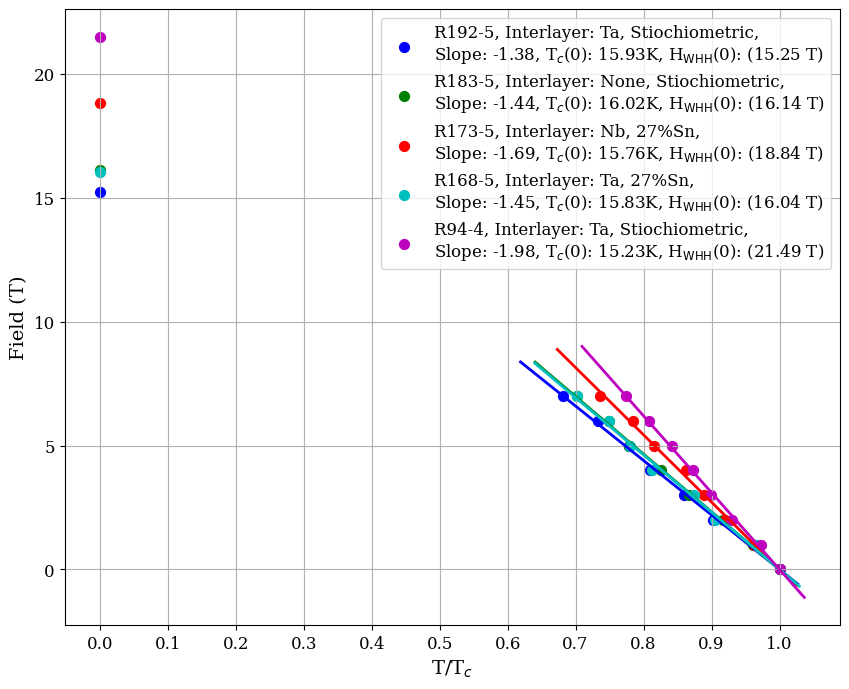
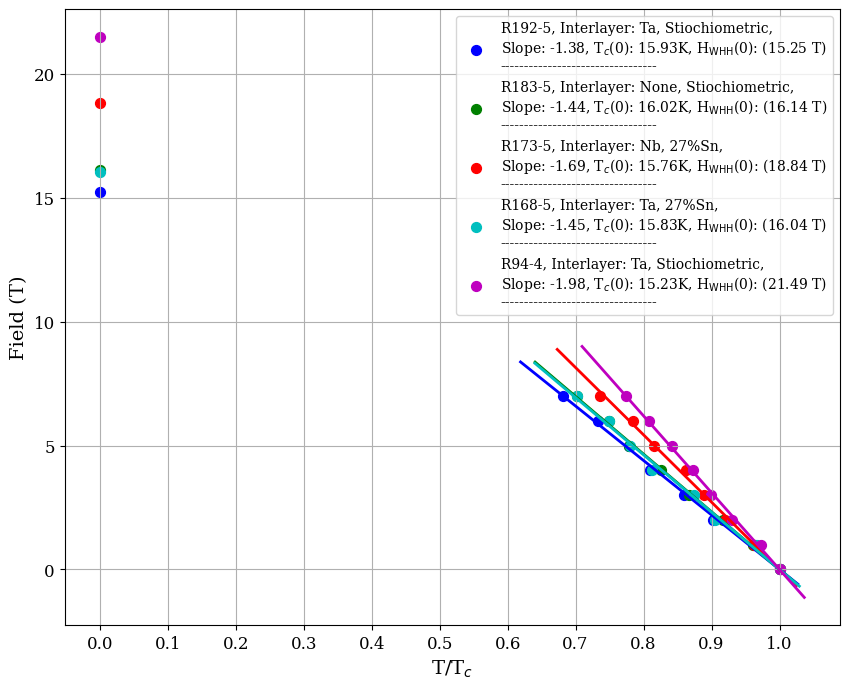
up

Changed region(s): [[0.4594, 0.0305, 0.98, 0.4267], [0.4594, 0.1219, 0.49, 0.1524]]

diff --git a/SQUID/T_H.py b/SQUID/T_H.py
@@ -60,7 +60,8 @@ for i, (file, label) in enumerate(files):
     df = df.sort_values(by='T')
 
     # Main Data
-    ax.scatter(df["T"]/T_intercept, df["Field"], s=50, label=f"{label},\nSlope: {slope:.2f}, T$_c$(0): {tc}K, H$_{{\mathrm{{WHH}}}}$(0): ({h_Whh:.2f} T)", color=color)
+    ax.scatter(df["T"]/T_intercept, df["Field"], s=50,
+               label=f"{label},\nSlope: {slope:.2f}, T$_c$(0): {tc}K, H$_{{\mathrm{{WHH}}}}$(0): ({h_Whh:.2f} T)\n---------------------------------", color=color)
     
 
 
@@ -69,7 +70,7 @@ for i, (file, label) in enumerate(files):
 
 
 fontdict = {'fontsize': 14, 'fontweight': 'regular', 'fontfamily': 'serif'}
-legend_font = {'family': 'serif', 'size': 12, 'weight': 'regular'}
+legend_font = {'family': 'serif', 'size': 10, 'weight': 'regular'}
 tick_font = {'family': 'serif', 'size': 12, 'weight': 'regular'}
 
 
